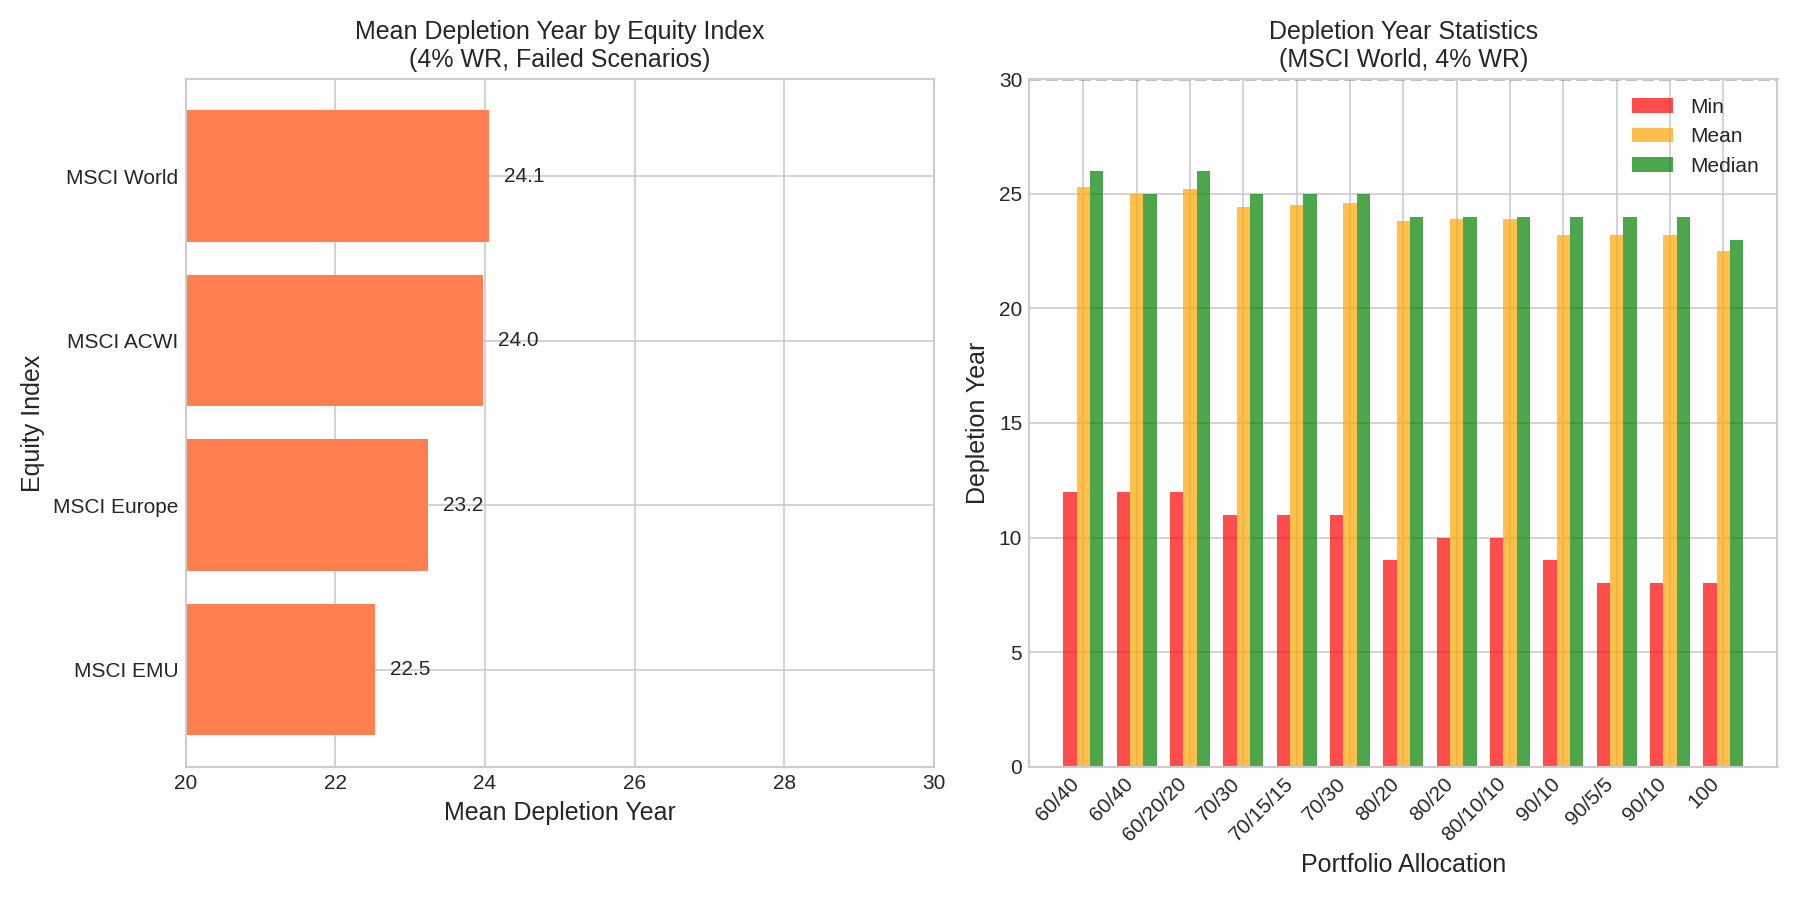
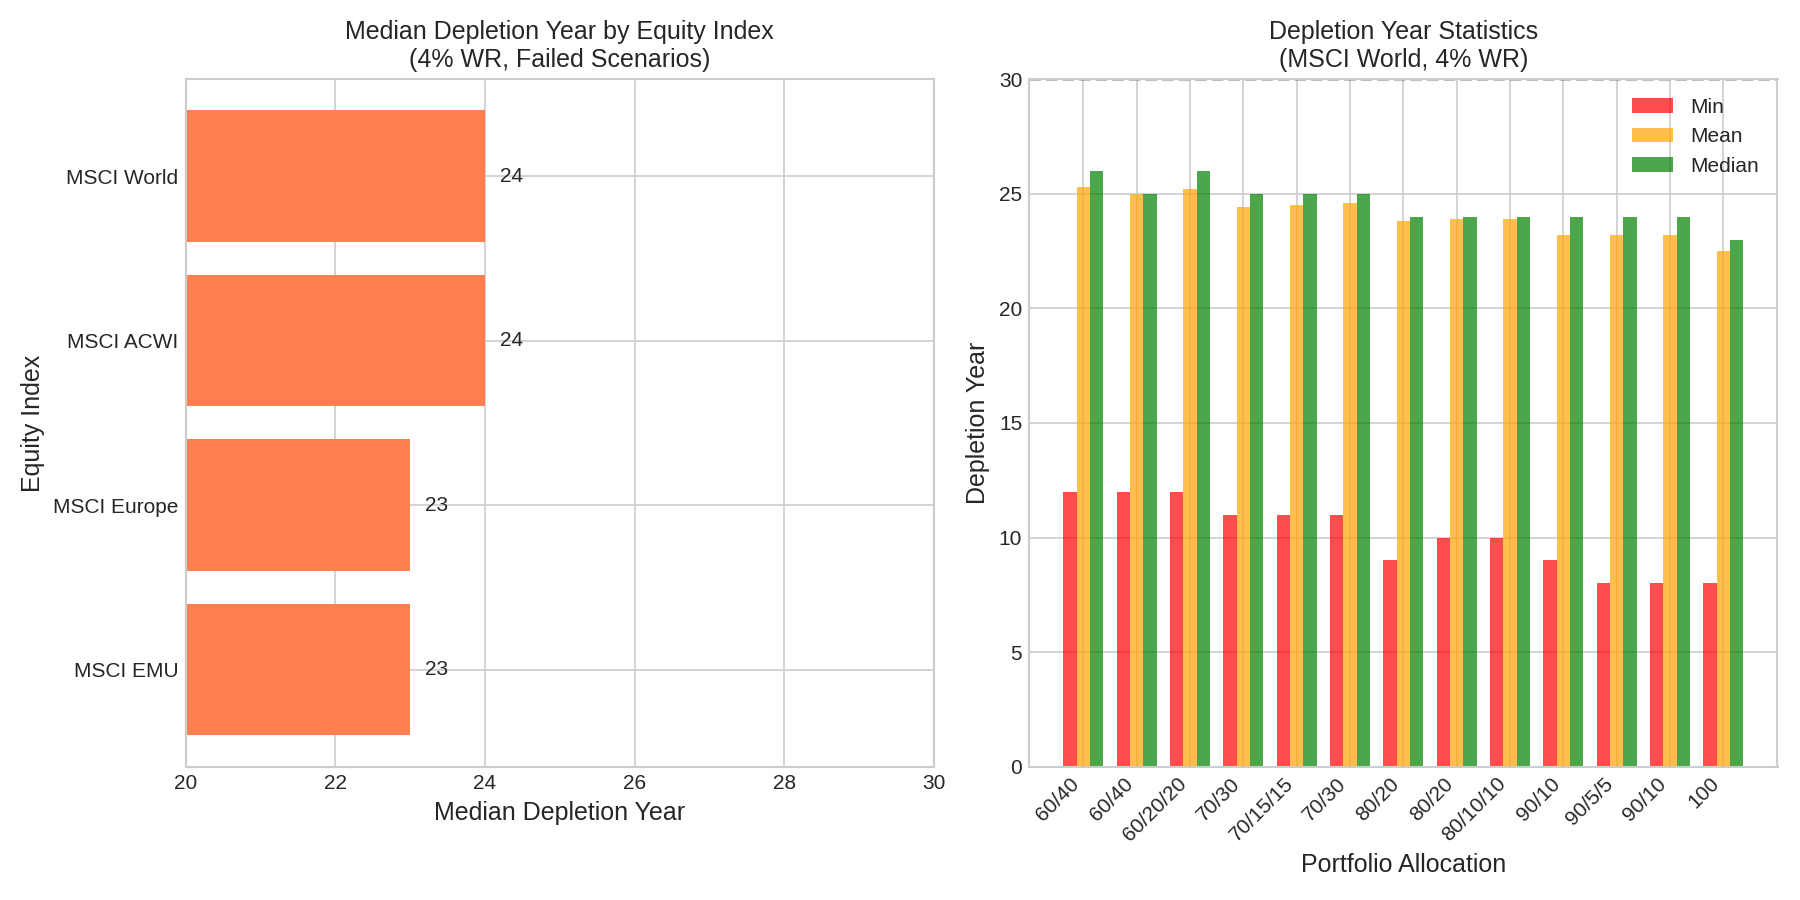
change to median depletion

diff --git a/src/tools/plots.py b/src/tools/plots.py
@@ -349,17 +349,17 @@ def plot_depletion_year_analysis(df: pd.DataFrame, output_dir: Path) -> None:
         logger.warning("No data for Depletion Year Analysis plot")
         return
 
-    # Left plot: Mean Depletion Year by Equity Index
+    # Left plot: Median Depletion Year by Equity Index
     ax1 = axes[0]
-    depletion_by_equity = subset.groupby("Equity")["Mean_Depletion"].mean().sort_values()
+    depletion_by_equity = subset.groupby("Equity")["Median_Depletion"].median().sort_values()
     bars = ax1.barh(depletion_by_equity.index, depletion_by_equity.values, color="coral")
-    ax1.set_xlabel("Mean Depletion Year", fontsize=12)
+    ax1.set_xlabel("Median Depletion Year", fontsize=12)
     ax1.set_ylabel("Equity Index", fontsize=12)
-    ax1.set_title("Mean Depletion Year by Equity Index\n(4% WR, Failed Scenarios)", fontsize=12)
+    ax1.set_title("Median Depletion Year by Equity Index\n(4% WR, Failed Scenarios)", fontsize=12)
     ax1.set_xlim(20, 30)
 
     for bar, val in zip(bars, depletion_by_equity.values):
-        ax1.text(val + 0.2, bar.get_y() + bar.get_height() / 2, f"{val:.1f}", va="center")
+        ax1.text(val + 0.2, bar.get_y() + bar.get_height() / 2, f"{val:.0f}", va="center")
 
     # Right plot: Min vs Mean vs Median Depletion for MSCI World
     ax2 = axes[1]

diff --git a/plots/README.md b/plots/README.md
@@ -125,7 +125,7 @@ Visualizations generated by `src/tools/plots.py` from `ANALYSIS_REGISTRY.csv` da
 
 **Data:** Portfolios with failed simulations, 4% WR
 
-**Left panel:** Mean depletion year by equity index
+**Left panel:** Median depletion year by equity index
 **Right panel:** Min, Mean, Median depletion year for MSCI World
 
 **Key insights:**
